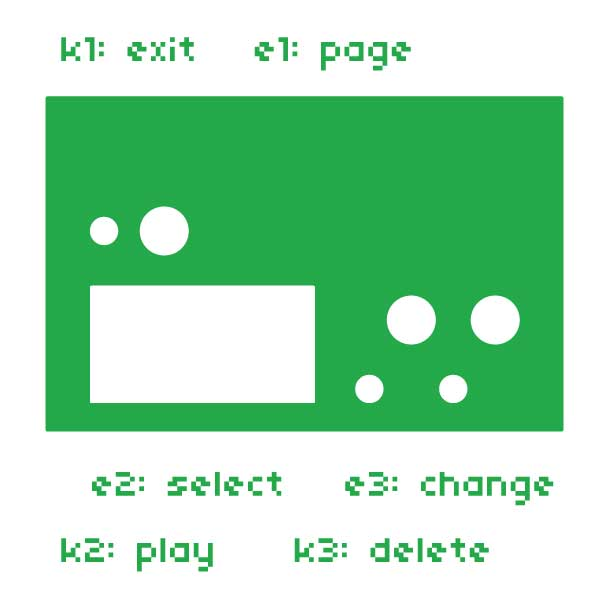
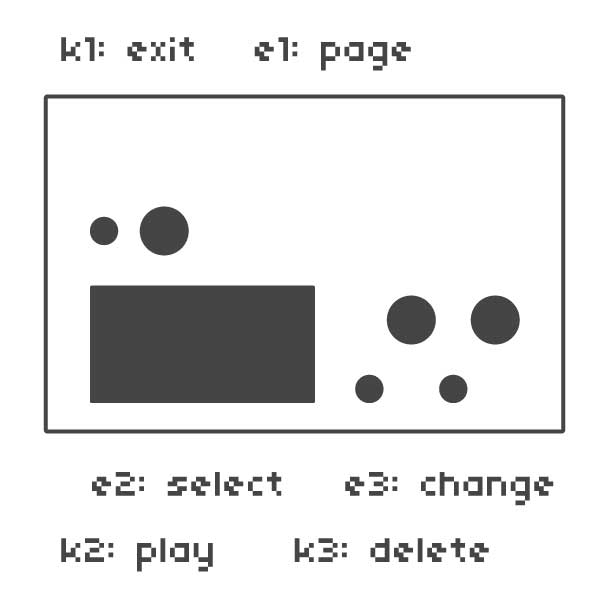
++

diff --git a/_layouts/default.html b/_layouts/default.html
@@ -13,7 +13,167 @@
 
     <div class="col-md-9 offset-md-1 col-xl-8 offset-xl-2 py-md-3 pl-md-5 bd-content">
 
-      {{ content }}
+      <div class="row">
+
+
+
+        <div class="col mb-5">
+          <h2 id="arcologies" class="add-spacing">arcologies</h2>
+          <hr>
+          <div class="row">
+            <div class="col-lg-6 col-sm-12">
+              <h3>&mdash; In Brief</h3>
+              <ul>
+                <li>Randomly seed and intentionally organize <strong>cells</strong> on the grid.</li>
+                <li>Cycle through their <strong>structures</strong> to define behavior.</li>
+                <li>Open their <strong>ports</strong> to create <strong>leylines</strong>.</li>
+                <li>Toggle playback and watch as <strong>signals</strong> spawn from (some) open ports.</li>
+                <li>Use signals to <strong>control logic</strong>, play <strong>synths</strong>, trigger <strong>samples</strong>, and route to <strong>outboard gear</strong>.</li>
+                <li>Analyse and sculpt the emergent <strong>sounds</strong>.</li>
+                <li><strong>Save</strong> and <strong>share</strong>.</li>
+              </ul>
+            </div>
+            <div class="col-lg-6 col-sm-12">
+              <h3>&mdash; Requirements</h3>
+              <ul>
+                <li>monome norns <code>200604</code></li>
+                <li>monome "varibright" grid</li>
+              </ul>
+            </div>
+          </div>
+        </div>
+      </div>
+
+
+
+      <div class="row">
+        <div class="col mb-5">
+          <h2 id="interface">Interface</h2>
+          <hr>
+          <div class="row">
+            <div class="col-md-6 col-sm-12">
+              <h3>&mdash; norns</h3>
+              <p>Encoder one (e1) always navigates horizontally between pages. Encoder two (e2) always scrolls through menu items. Encoder three (e3) always changes item values.</p>
+              <p>Key one (k1) always exits to the main norns menu. Key two (k2) always toggles playback. Key three (k3) always deletes the selected cell.</p>
+            </div>
+            <div class="col-md-6 col-sm-12">
+              <h3>&mdash; grid</h3>
+              <p>Press any key to create and/or select a cell. Press again to cycle through structures. Press an adjacent key to toggle ports. Press any empty key to deselect.</p>
+            </div>
+          </div>
+          <div class="row">
+            <div class="col-md-6 col-sm-12">
+              <h3>&mdash; norns (advanced)</h3>
+              <p>Long press k3 to trigger a countdown and delete all cells.</p>
+              <p>When changing values with e3, some items will use a pop-up menu. Unless otherwise specified on the screen, a 0.4 second threshold of inactivity (i.e. less than half a second after you stop turning e3) will result in returning to the previous menu. Note that the value selection is instantaneous - not 0.4 seconds - and some pop-up menus have an ABORT option available at the "bottom" of the values (i.e. spin e3 counter-clockwise until you see ABORT).</p>
+            </div>
+            <div class="col-md-6 col-sm-12">
+              <img src="assets/images/norns.jpg">
+            </div>
+          </div>
+        </div>
+      </div>
+
+
+
+      <div class="row">
+        <div class="col mb-5">
+          <h2 id="cells">Cells</h2>
+          <hr>
+          <p>Cells are the building blocks of <strong>arcologies</strong>. Each key of grid represents a cell. Each cell has a structure, but these structures can be changed. Structures define qualities, behaviors, and attributes of a cell.</p>
+          <p>Cells also have four ports, each of which can either be open or closed. Ports direct the flow of signals.</p>
+        </div>
+      </div>
+
+
+
+      <div class="row">
+        <div class="col mb-5">
+          <h2 id="signals">Signals</h2>
+          <hr>
+          <p>Like <a href="https://en.wikipedia.org/wiki/Photon">photons</a>, signals are the elementary particle of <strong>arcologies</strong>. All signals are created equal: they move at the same speed, have the same attributes, and interact with the world around them exactly as each other signal would. Signals really only have one meaningful attribute: a <em>heading</em>.</p>
+          <p>Signals move in straight lines. Signal headings are simply the cardinal directions of north, east, south, and west.</p>
+          <p>Signals allow cells to ineract at a distance. Some cells emit signals. Other cells destory signals. Yet others multiply, divide, and change the direction of signals.</p>
+          <p>If two (or more) would occupy the same coordinate at the same time, they will all be destroyed.</p>
+          <p>Signals are destroyed when they leave the boundaries of the grid.</p>
+        </div>
+      </div>
+
+
+
+      <div class="row">
+        <div class="col mb-5">
+          <h2 id="structures">Structures</h2>
+          <hr>
+        </div>
+      </div>
+
+
+
+      <div class="row">
+        {% assign structures_by_order = site.structures | sort: "order" %}
+        {% for structure in structures_by_order %}
+        <div id="{{ structure.idf }}" class="col-md-4 col-sm-12">
+          <div class="card text-white bg-dark mb-5">
+            <div class="card-header"><h5 class="card-title">{{ structure.name }}</h5></div>
+            <div class="card-body">
+              <img src="assets/images/structures/{{ structure.image }}" class="mx-auto d-block">
+              <p class="card-text text-center"><em>"{{ structure.flavor }}"</em></p>
+              <hr>
+              <p class="card-text">{{ structure.content }}</p>
+              <hr>
+              <h5 class="card-title">Attributes</h5>
+              <ul>
+                {% for attribute in structure.attributes %}
+                <li><pre>{{ attribute }}</pre></li>
+                {% endfor %}
+              </ul>
+            </div>
+          </div>
+        </div>
+        {% endfor %}
+      </div>
+
+
+
+      <div class="row">
+        <div class="col mb-5">
+          <h2 id="other">Other</h2>
+          <hr>
+          <div class="row">
+            <div class="col">
+              <h3 id="cells">&mdash; Leylines</h3>
+                <p>Leylines help you visualize the signal flow of your arcology. Opening a port will draw a leyline to a terminus (either a cell or the edge of the grid.) Leylines are purely decorative and have no functional impact on your arcology.</p>
+            </div>
+          </div>
+        </div>
+      </div>
+
+
+
+      <div class="row">
+        <div class="col mb-5">
+          <h2 id="philosophy">Philosophy</h3>
+          <hr>
+          <p>For monome <a href="https://monome.org/docs/norns">norns</a> and <a href="https://monome.org/docs/grid">grid</a>, <strong>arcologies</strong> is a 21st century instrument for musical composition and discovery.</p>
+          <p>The core design objective for this software is clarity. Each key and encoder on norns have a dedicated function. All the keys on the grid share the same behavior. The menus are built to be fast, intuitive, cohesive, and consistent. With a foundation that is (hopefully) quick to master, the arcologist's focus can shift to sculpting emergent and complex compositions.</p>
+          <p>The design of <strong>arcologies</strong> heavily inspired by the two-dimensionality of <a href="https://100r.co/site/orca.html">Orca</a>, the polymorphism of <a href="https://ornament-and-cri.me/">ornament & crime</a>, and the immediacy of <a href="https://monome.org/docs/meadowphysics/">meadowphysics</a>. Other curios played a part, too: <a href="http://www.bay12games.com/dwarves/">Dwarf Fortress</a>, the <a href="https://en.wikipedia.org/wiki/Tower_defense">tower defense</a> genre, <a href="https://en.wikipedia.org/wiki/SimCity">SimCity</a>, and the <a href="http://generativemusic.com/">Eno / Chilvers</a> suite of generative applications, carbon-based life, water, the anthropocene, supply chains, <a href="https://en.wikipedia.org/wiki/The_Mushroom_at_the_End_of_the_World">The Mushroom at the End of the World</a>, <a href="https://dark-mountain.net/">The Dark Mountain Project</a>, <a href="https://soundcloud.com/eco-futurism-corp">Eco Futurism Corp</a>, <a href="https://danielseankelly.wordpress.com/2019/04/24/in-the-days-of-the-seasteaders-or-how-the-extropian-detritivores-broke-capitalism/">"seasteading"</a>, the gedankenexperiment-prompt: "sound artist's work in a William Gibson novel?", <a href="https://journal.highlandsolutions.com/cellular-automata-in-javascript-c0336af3e1f3">Conway's Game of Life</a>, Garfield Park Conservatory, the Epcot Center, <a href="https://en.wikipedia.org/wiki/Buckminster_Fuller">Buckminster Fuller</a>, and the need to challenge myself and create something beautiful during this fucking pandemic. And, of course, actual <a href="https://en.wikipedia.org/wiki/Arcology">arcologies</a> and <a href="https://en.wikipedia.org/wiki/Metabolism_(architecture)">the architectural movement known as <em>metabolism</em></a>.</p>
+          <p><strong>arcologies</strong> is free, <a href="https://github.com/tyleretters/arcologies">open source</a>, and licensed under the <a href="https://www.gnu.org/licenses/gpl-3.0.en.html">GNU General Public License v3.0</a>.</p>
+          <p>Contributions welcome.</p>
+        </div>
+      </div>
+
+
+
+      <div class="row">
+        <div class="col mb-5">
+          <h2 id="credits">Credits</h3>
+          <hr>
+          <p>Software & design by Tyler Etters. Logo by Theresa Berg. Glyphs by both. This project would not have been possible without the generous mentorship, support, and patience of so many from the llllllll community. You know who you are! Thank you.</p>
+        </div>
+      </div>
+
+
 
     </div>
 

diff --git a/_includes/sidebar.html b/_includes/sidebar.html
@@ -4,14 +4,15 @@
     <a class="nav-link" href="#interface">Interface</a>
     <a class="nav-link" href="#cells">Cells</a>
     <a class="nav-link" href="#signals">Signals</a>
-    <a class="nav-link" href="#blueprints">Blueprints</a>
+    <a class="nav-link" href="#structures">Structures</a>
     <nav class="nav nav-pills flex-column">
-      <a class="nav-link ml-3" href="#hive">Hive</a>
-      <a class="nav-link ml-3" href="#shrine">Shrine</a>
-      <a class="nav-link ml-3" href="#gate">Gate</a>
-      <a class="nav-link ml-3" href="#rave">Rave</a>
+      <a class="nav-link sub-nav ml-3" href="#hive">Hive</a>
+      <a class="nav-link sub-nav ml-3" href="#shrine">Shrine</a>
+      <a class="nav-link sub-nav ml-3" href="#gate">Gate</a>
+      <a class="nav-link sub-nav ml-3" href="#rave">Rave</a>
+      <a class="nav-link sub-nav ml-3" href="#topiary">Topiary</a>
+      <a class="nav-link sub-nav ml-3" href="#maze">Maze</a>
     </nav>
-    <a class="nav-link" href="#attributes">Attributes</a>
     <a class="nav-link" href="#other">Other</a>
     <a class="nav-link" href="#philosophy">Philosophy</a>
     <a class="nav-link" href="#credits">Credits</a>

diff --git a/assets/stylesheets/style.css b/assets/stylesheets/style.css
@@ -24,7 +24,7 @@ h3 {
   font-size: 1.25rem;
   font-weight: 600;
   font-style: italic;
-  color: #28A745; }
+  color: #777777; }
 
 h4 {
   font-size: 1rem;
@@ -52,7 +52,18 @@ a.btn:hover {
 
 hr {
   margin-top: 0;
-  border-top: 2px solid #28A745; }
+  border-top: 2px solid #444444; }
+
+.card-body hr {
+  border-top: 2px solid #848484; }
+.card-body ul {
+  padding: 0;
+  list-style: none; }
+  .card-body ul li {
+    background: #FFFFFF;
+    padding: 0 5px;
+    margin: 0 0 10px 0;
+    border-radius: 4px; }
 
 img {
   max-width: 100%; }
@@ -103,5 +114,8 @@ iframe {
   #toc .nav-link.active {
     color: #FFFFFF;
     background-color: #007BFF; }
+  #toc .sub-nav.active {
+    color: #007BFF;
+    background-color: #FFFFFF; }
 
 /*# sourceMappingURL=style.css.map */

diff --git a/assets/stylesheets/style.sass b/assets/stylesheets/style.sass
@@ -31,7 +31,7 @@ h3
   font-size: 1.25rem
   font-weight: 600
   font-style: italic
-  color: $green
+  color: lighten($grey, 20%)
 
 h4
   font-size: 1rem
@@ -59,7 +59,20 @@ a.btn:hover
 
 hr
   margin-top: 0
-  border-top: 2px solid $green
+  border-top: 2px solid $grey
+
+.card-body
+  hr
+    border-top: 2px solid lighten($grey, 25%)
+  ul
+    padding: 0
+    list-style: none
+    li
+      background: $white
+      padding: 0 5px
+      margin: 0 0 10px 0
+      border-radius: 4px
+
 
 img
   max-width: 100%
@@ -116,3 +129,7 @@ iframe
   .nav-link.active
     color: $white
     background-color: $blue
+
+  .sub-nav.active
+    color: $blue
+    background-color: $white

diff --git a/collections/_structures/topiary.md b/collections/_structures/topiary.md
@@ -1,0 +1,9 @@
+---
+order: 5
+idf: topiary
+name: Topiary
+image: topiary.png
+flavor: A dangerously innoccuous structure, the topiaries are endlessly groomed by the nuns and monks.
+attributes: ['Index', 'Note 1', 'Note 2', 'Note 3', 'Note 4', 'Note 5', 'Note 6', 'Note 7', 'Note 8']
+---
+All adjacent structures with note attributes inherit the current note index instead of their own. If a signal collides with a closed port, increment the index.

diff --git a/collections/_structures/gate.md b/collections/_structures/gate.md
@@ -1,0 +1,9 @@
+---
+order: 3
+idf: gate
+name: Gate
+image: gate.png
+flavor: The destinies of those who pass through are forever changed.
+attributes: ['None']
+---
+Routes the flow of signals throuh open ports. If a signal collides a closed port, _invert all ports_.

diff --git a/collections/_structures/shrine.md b/collections/_structures/shrine.md
@@ -1,0 +1,9 @@
+---
+order: 2
+idf: shrine
+name: Shrine
+image: shrine.png
+flavor: A holy site to the SuperCollider pantheon.
+attributes: ['Note', 'Velocity']
+---
+Plays single notes via onboard SuperCollider engine. Routes the flow of signals through open ports.

diff --git a/collections/_structures/rave.md b/collections/_structures/rave.md
@@ -1,0 +1,9 @@
+---
+order: 4
+idf: rave
+name: Rave
+image: rave.png
+flavor: Rolling drums and muffled subs in the distance... where is it?
+attributes: ['Offset', 'Metabolism']
+---
+Emits signals like a hive, but on each beat all ports are randomly toggled.

diff --git a/collections/_structures/maze.md b/collections/_structures/maze.md
@@ -1,0 +1,9 @@
+---
+order: 6
+idf: maze
+name: Maze
+image: maze.png
+flavor: Legends speak of a being named Turing...
+attributes: ['Probability', 'Length']
+---
+Emits signals like a hive, but based on a Turing Machine algorithm.

diff --git a/collections/_structures/hive.md b/collections/_structures/hive.md
@@ -1,0 +1,9 @@
+---
+order: 1
+idf: hive
+name: Hive
+image: hive.png
+flavor: The pulse of life & the endless cycle of progress.
+attributes: ['Offset', 'Metabolism']
+---
+Emit signals at regular intervals.

diff --git a/index.md b/index.md
@@ -1,3 +1,3 @@
 ---
-layout: home
+layout: default
 ---
